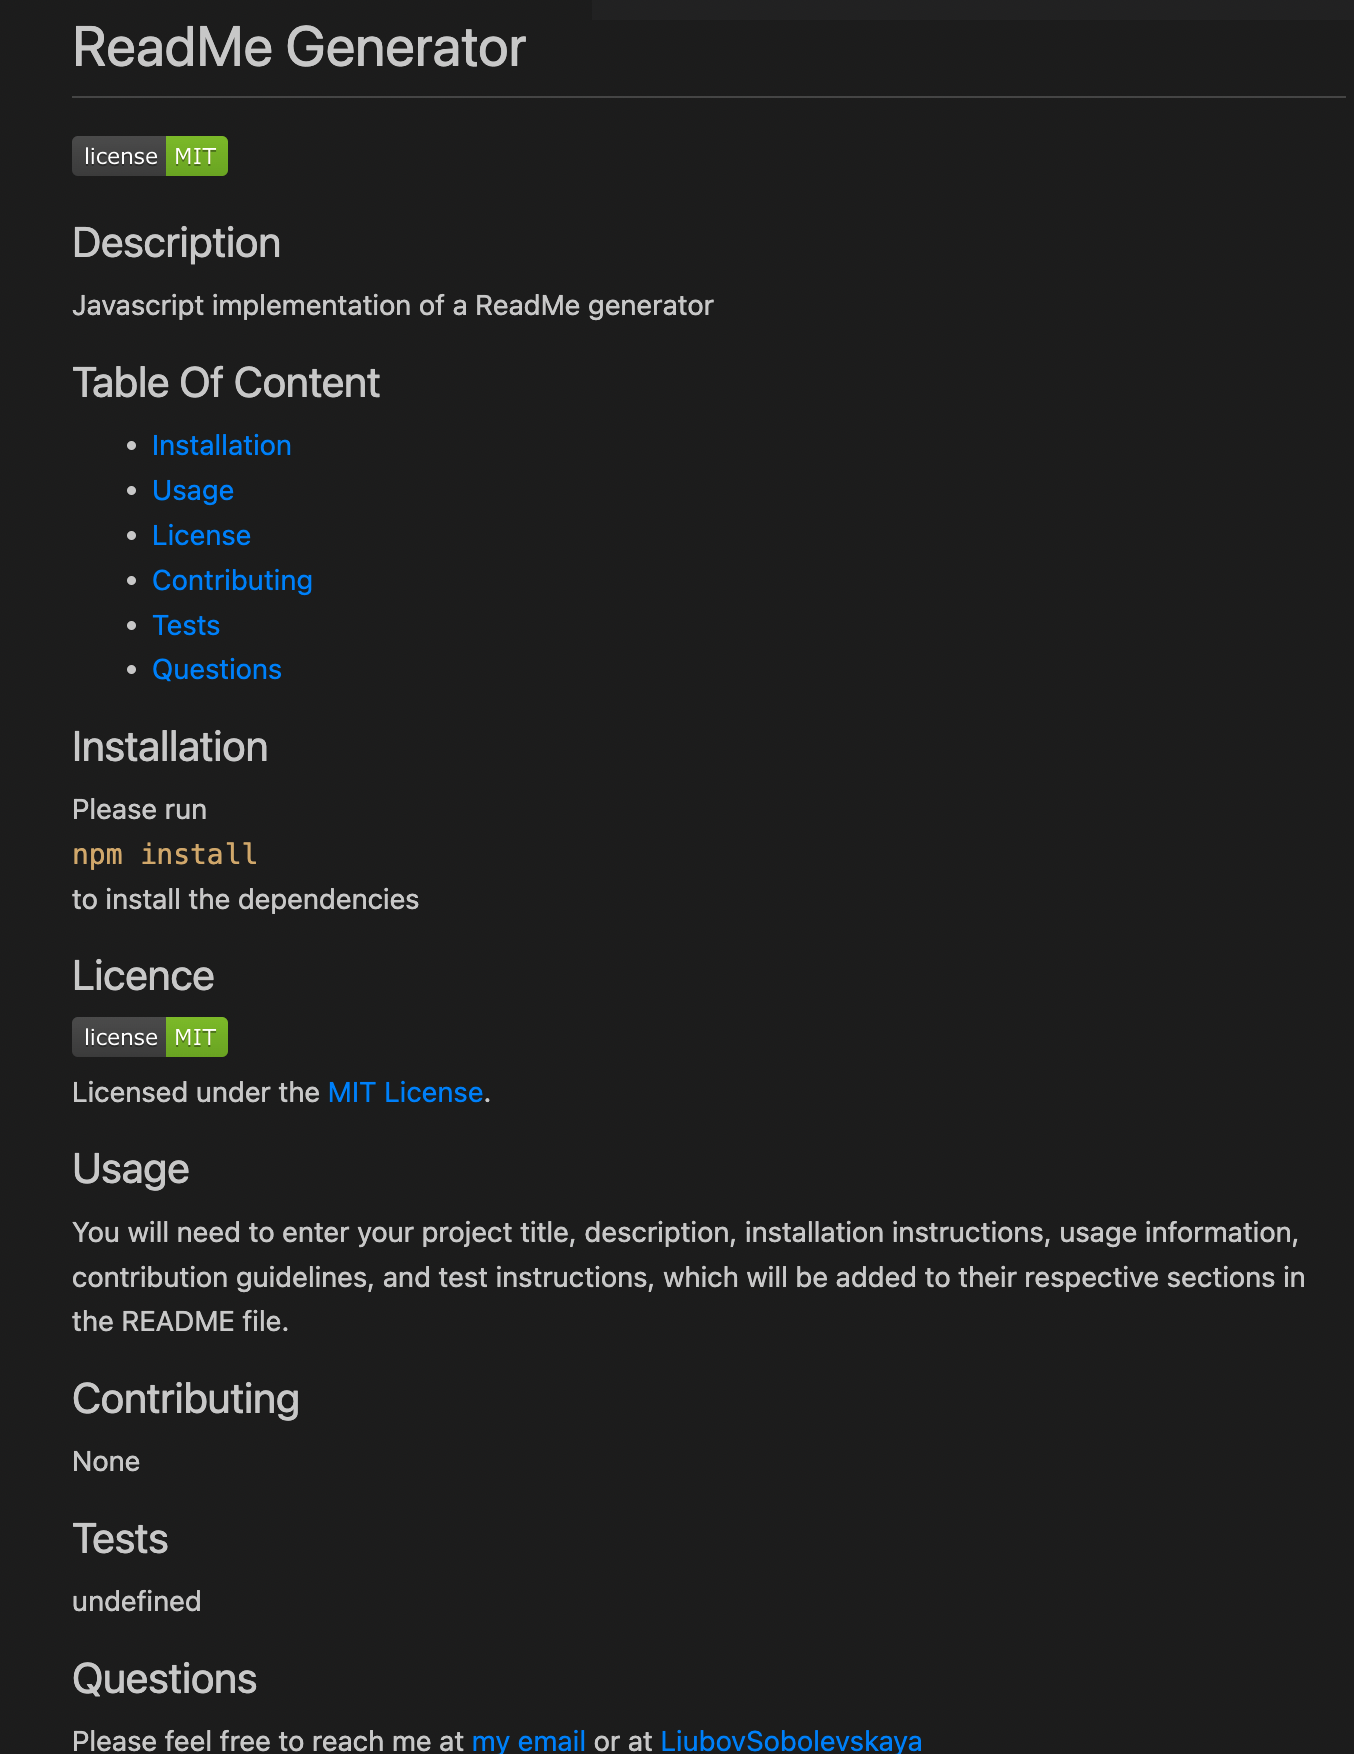
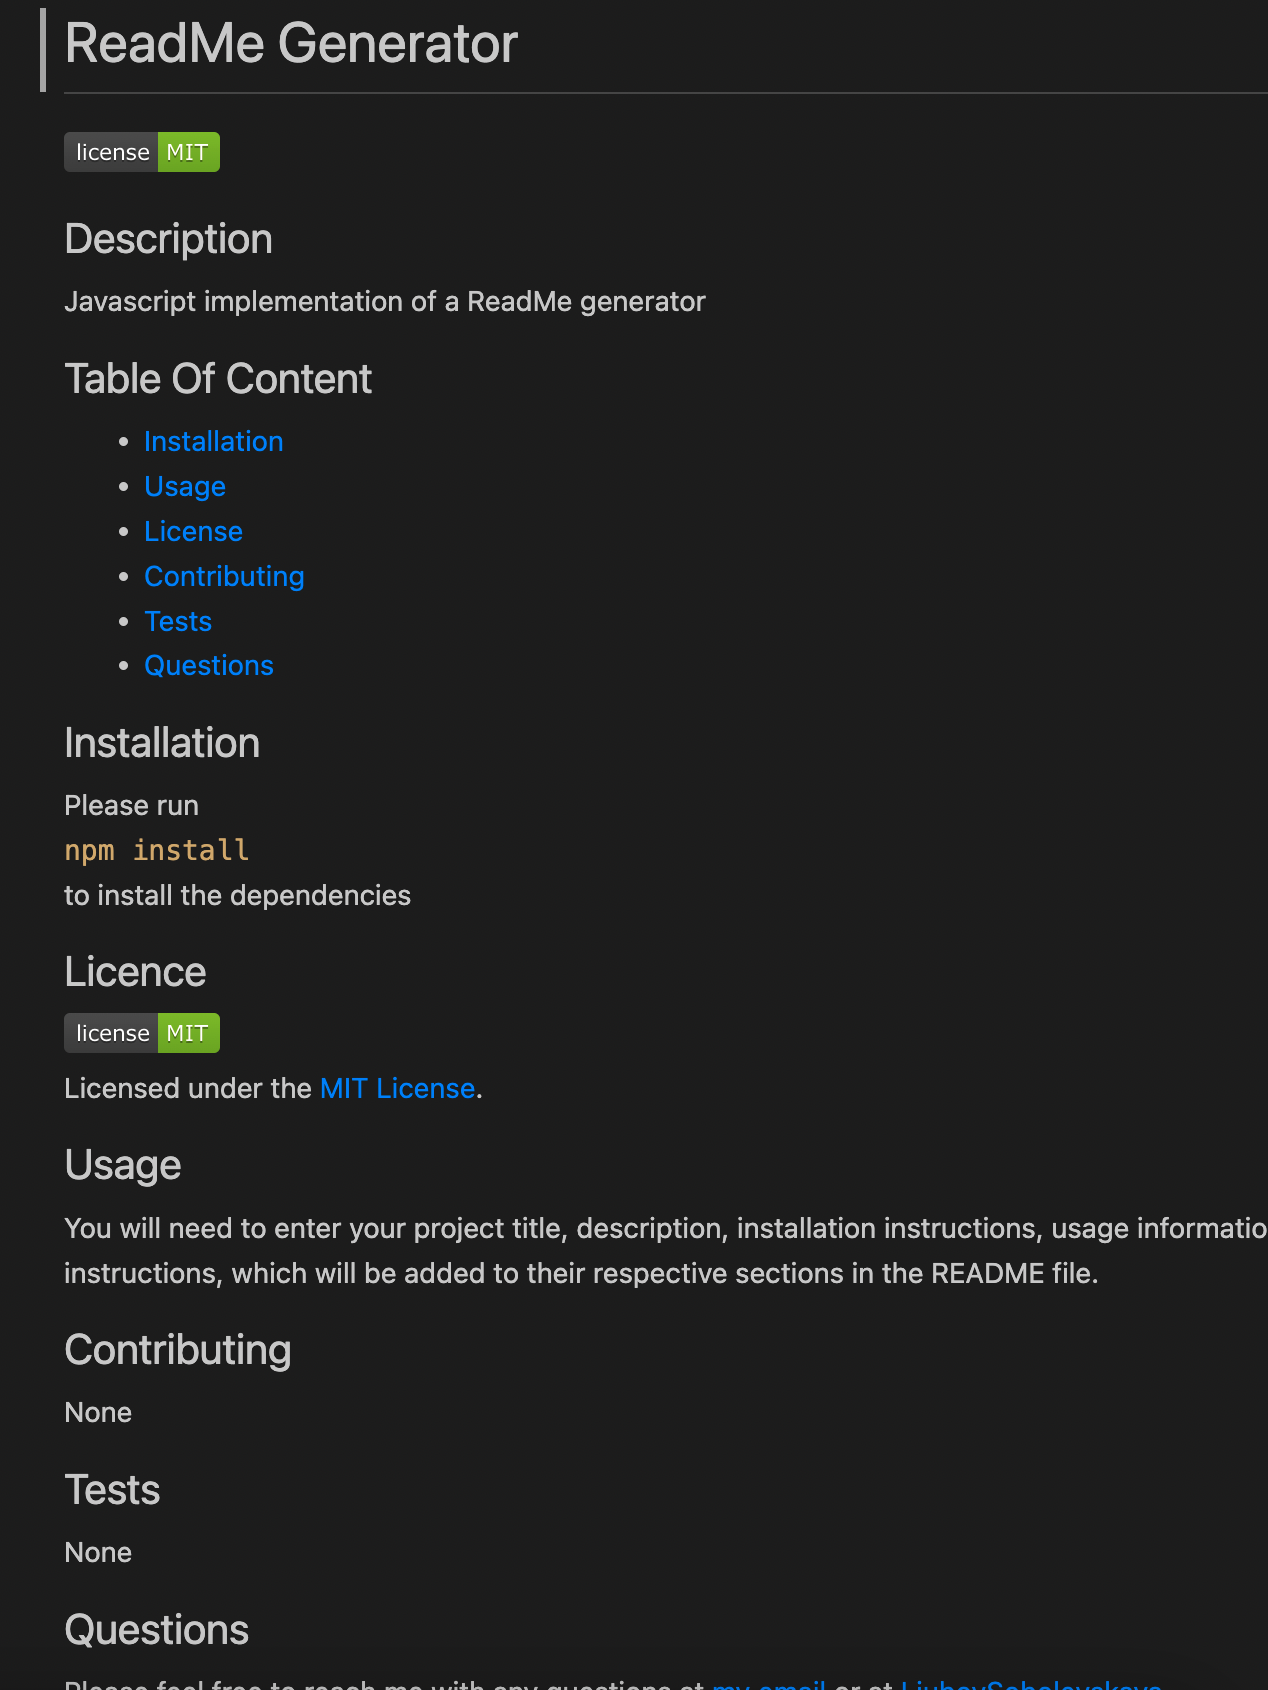
fix bug

diff --git a/utils/generateMarkdown.js b/utils/generateMarkdown.js
@@ -68,7 +68,7 @@ function generateMarkdown(data) {
   ${data.contribution}
     
   ## Tests
-  ${data.test}
+  ${data.tests}
     
   ## Questions
   Please feel free to reach me with any questions at [my email](mailto:${data.email}) or at [${data.username}](https://github.com/${data.username})

diff --git a/README_liubobsobolevskaya.md b/README_liubobsobolevskaya.md
@@ -1,8 +1,8 @@
-# ReadMe Generator 
+# Profesional README generator
   ![MIT License](https://img.shields.io/badge/license-MIT-green.svg)
   
   ## Description
-  Javascript implementation of a ReadMe generator 
+  javascript implementation of README generator
 
   ## Table Of Content 
   * [Installation](#Installation)
@@ -13,7 +13,7 @@
   * [Questions](#Questions)
 
   ## Installation
-  Please run <br/>```npm install``` <br/> to install the dependencies
+  Please run <br/> ``` npm install```
   
   ## Licence
   ![MIT License](https://img.shields.io/badge/license-MIT-green.svg) <br/>
@@ -27,9 +27,8 @@
   None
     
   ## Tests
-
-  None
+  undefined
     
   ## Questions
-  Please feel free to reach me with any questions at [my email](mailto:lubava@gmail.com) or at [LiubovSobolevskaya](https://github.com/LiubovSobolevskaya)
+  Please feel free to reach me with any questions at [my email](mailto:lsneben@ncnd.com) or at [LiubobSobolevskaya](https://github.com/LiubobSobolevskaya)
   
